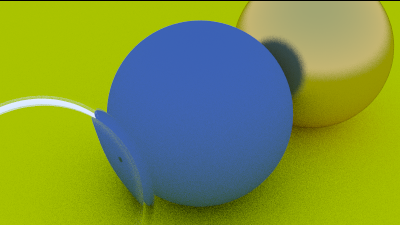
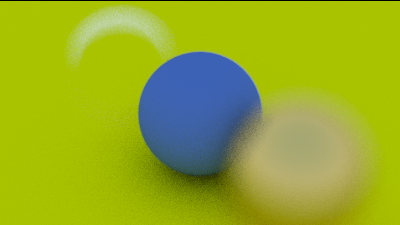
Added aperture and lens deblur

diff --git a/src/camera.rs b/src/camera.rs
@@ -1,13 +1,28 @@
 use crate::ray::Ray;
 
 use nalgebra::Vector3;
+use rand::Rng;
 use std::f64;
+
+fn random_in_unit_disk() -> Vector3<f64> {
+    let mut rng = rand::thread_rng();
+    let unit = Vector3::new(1.0, 1.0, 0.0);
+    loop {
+        let p = 2.0 * Vector3::new(rng.gen::<f64>(), rng.gen::<f64>(), 0.0) - unit;
+        if p.dot(&p) < 1.0 {
+            return p;
+        }
+    }
+}
 
 pub struct Camera {
     origin: Vector3<f64>,
+    lower_left_corner: Vector3<f64>,
     horizontal: Vector3<f64>,
     vertical: Vector3<f64>,
-    lower_left_corner: Vector3<f64>,
+    u: Vector3<f64>,
+    v: Vector3<f64>,
+    lens_radius: f64,
 }
 
 impl Camera {
@@ -17,9 +32,11 @@ impl Camera {
         view_up: Vector3<f64>,
         vertical_fov: f64,
         aspect: f64,
+        aperture: f64,
+        focus_dist: f64,
     ) -> Self {
         let theta = vertical_fov * f64::consts::PI / 180.0;
-        let height = (theta / 2.0).tan() * 2.0;
+        let height = (theta / 2.0).tan() * focus_dist * 2.0;
         let width = aspect * height;
 
         let w = (look_from - look_at).normalize();
@@ -27,16 +44,21 @@ impl Camera {
         let v = w.cross(&u);
         Camera {
             origin: look_from,
-            lower_left_corner: look_from - (width / 2.0) * u - (height / 2.0) * v - w,
+            lower_left_corner: look_from - (width / 2.0) * u - (height / 2.0) * v - focus_dist * w,
             horizontal: width * u,
             vertical: height * v,
+            u,
+            v,
+            lens_radius: aperture / 2.0,
         }
     }
 
     pub fn get_ray(&self, s: f64, t: f64) -> Ray {
+        let rd = self.lens_radius * random_in_unit_disk();
+        let offset = self.u * rd.x + self.v * rd.y;
         Ray::new(
-            self.origin,
-            self.lower_left_corner + s * self.horizontal + t * self.vertical - self.origin,
+            self.origin + offset,
+            self.lower_left_corner + s * self.horizontal + t * self.vertical - self.origin - offset,
         )
     }
 }

diff --git a/src/main.rs b/src/main.rs
@@ -63,12 +63,18 @@ fn main() {
     const MAX_DEPTH: u32 = 50;
 
     // Camera
-    let camera = Camera::new(
-        Vector3::new(-2.0, 2.0, 1.0),
-        Vector3::new(0.0, 0.0, -1.0),
+    let look_from = Vector3::new(3.0, 3.0, 2.0);
+    let look_at = Vector3::new(0.0, 0.0, -1.0);
+    let focus_dist = (look_from - look_at).magnitude();
+    let aperture = 2.0;
+    let cam = Camera::new(
+        look_from,
+        look_at,
         Vector3::new(0.0, 1.0, 0.0),
         20.0,
         ASPECT_RATIO,
+        aperture,
+        focus_dist,
     );
 
     // define world and scene
@@ -109,7 +115,7 @@ fn main() {
             for _ in 0..SAMPLES_PER_PIXEL {
                 let u = (i as f64 + rng.gen::<f64>()) / IMAGE_WIDTH;
                 let v = (j as f64 + rng.gen::<f64>()) / IMAGE_HEIGHT;
-                let ray = camera.get_ray(u, v);
+                let ray = cam.get_ray(u, v);
                 colour += ray_colour_non_manip(&ray, &world, MAX_DEPTH);
             }
             colour /= SAMPLES_PER_PIXEL as f64;
